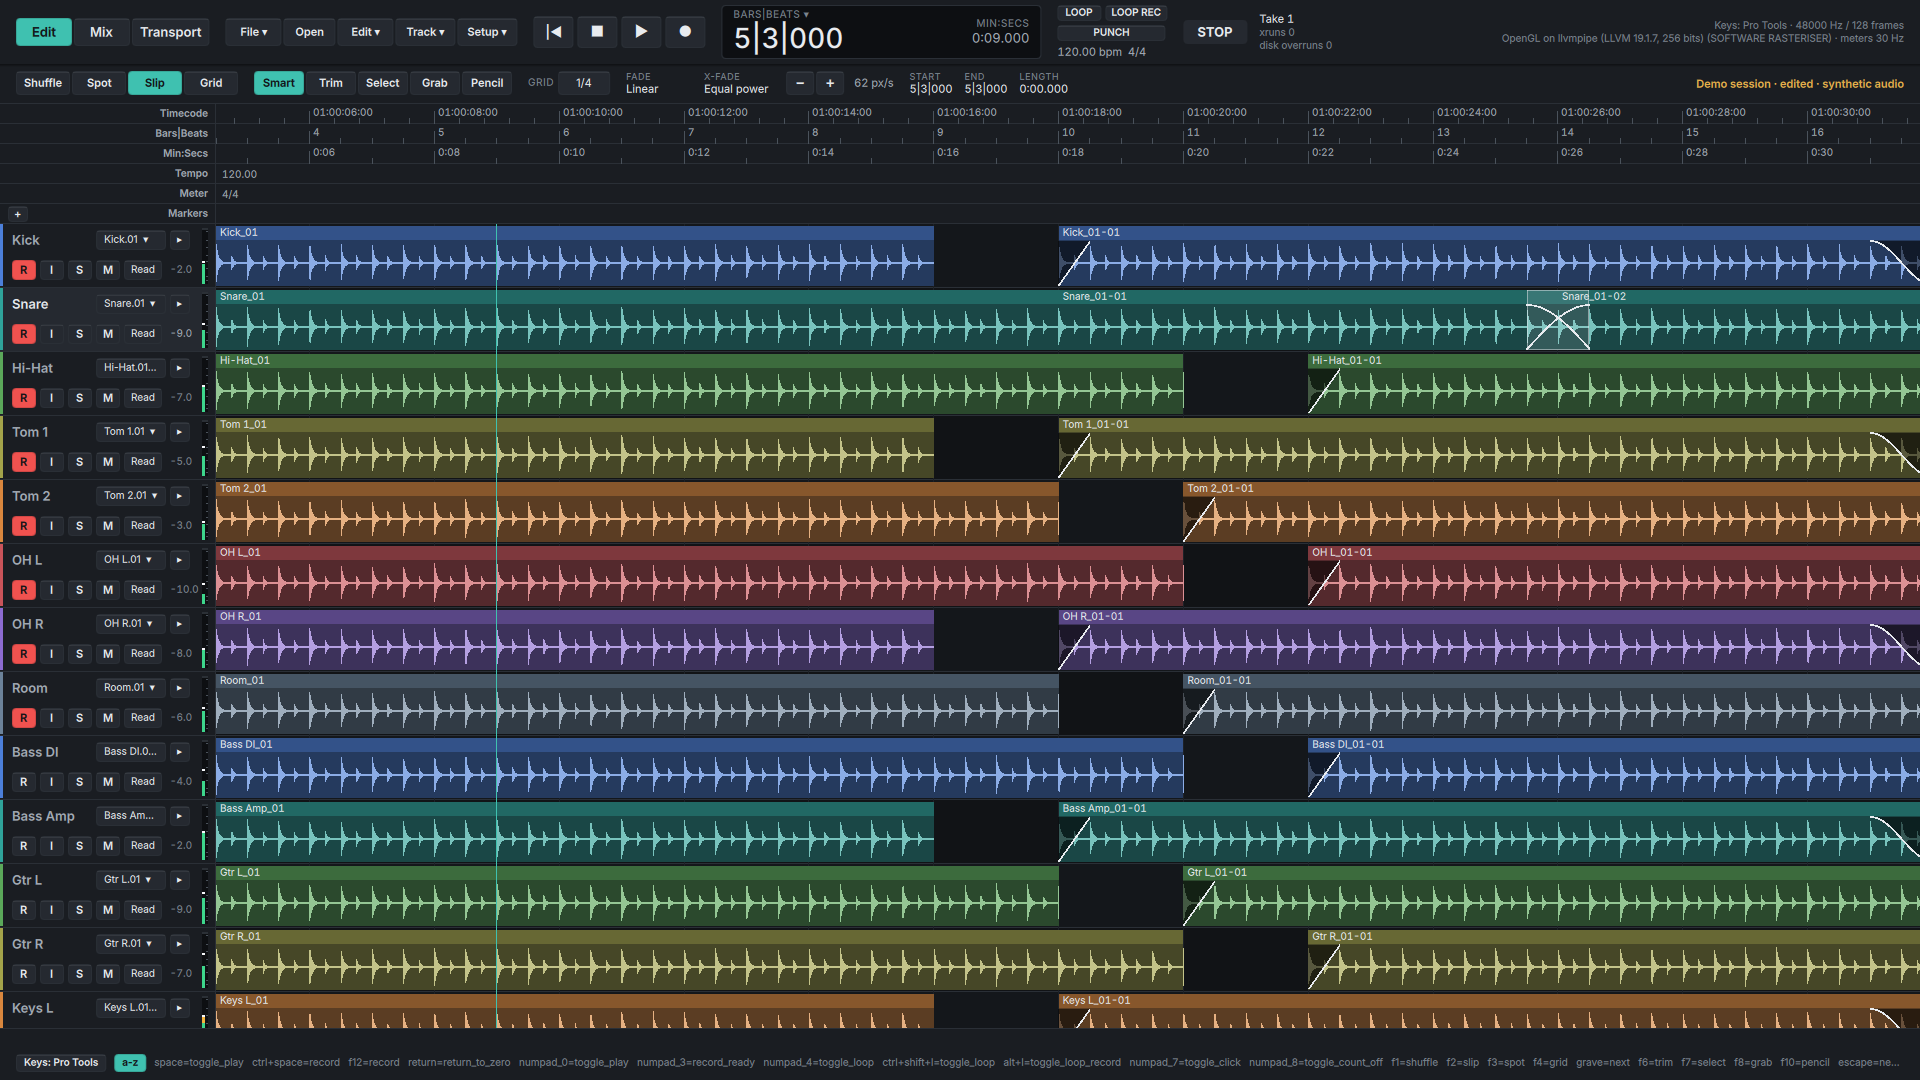
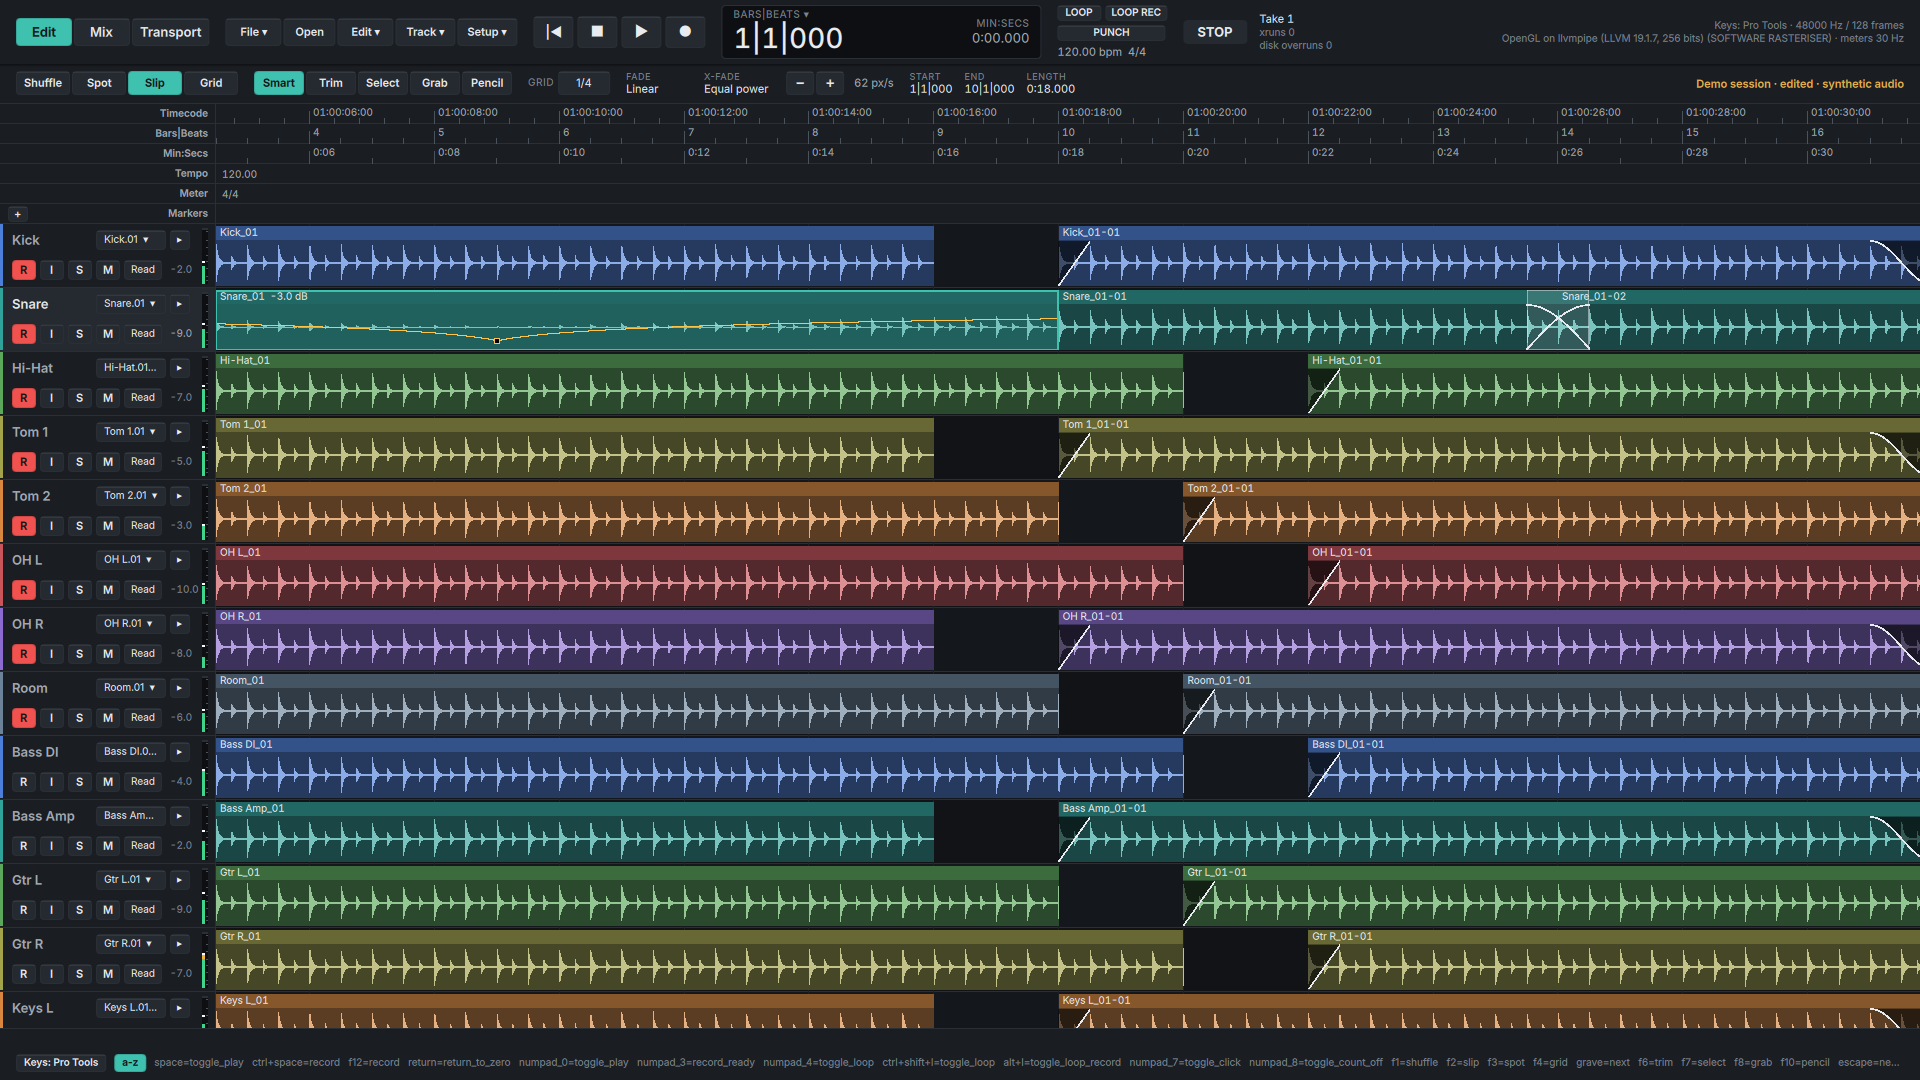
clip gain: replication test budget, scene, screenshot

Changed region(s): [[0.0938, 0.275, 0.5625, 0.3361], [0.5, 0.0611, 0.5625, 0.0917], [0.375, 0.0306, 0.4062, 0.0611]]

diff --git a/ui/qt/src/scenes/edit_clip_gain.cpp b/ui/qt/src/scenes/edit_clip_gain.cpp
@@ -1,7 +1,7 @@
 // SPDX-License-Identifier: GPL-3.0-or-later
 //
 // The Edit window with clip gain on the snare's first region: a level of
-// -3 dB and a dip in the middle of the clip, the line and its handles drawn
+// -3 dB and a deep dip in the middle of the clip, the line and its handles drawn
 // over the waveform, the level in the clip's name.
 #include "screenshot_scene.h"
 
@@ -23,7 +23,7 @@ const ShotRegistrar registrar{[] {
             c.model.invoke(QStringLiteral("zoom.in"), -1);
             if (!ctl.select_region(r.id)) return;
             ctl.set_clip_gain(-3.0f, why);
-            ctl.set_gain_point(r.position + r.length / 2, -9.0f, why);
+            ctl.set_gain_point(r.position + r.length / 2, -24.0f, why);
         });
     };
     return s;

diff --git a/common/model/tests/test_replication.cpp b/common/model/tests/test_replication.cpp
@@ -443,7 +443,7 @@ bool same_history(const Replica& r, const Document& d) {
 // the first Undo after a resync found nothing to undo on the replica and
 // every Undo and Redo after that desynced it.
 int test_resync_keeps_the_undo_window() {
-    Document doc(new_session(settings()), 64 * 1024);
+    Document doc(new_session(settings()), 72 * 1024);
     std::string error;
     ReplicationUpdate u;
     Ids ids(doc.current());
